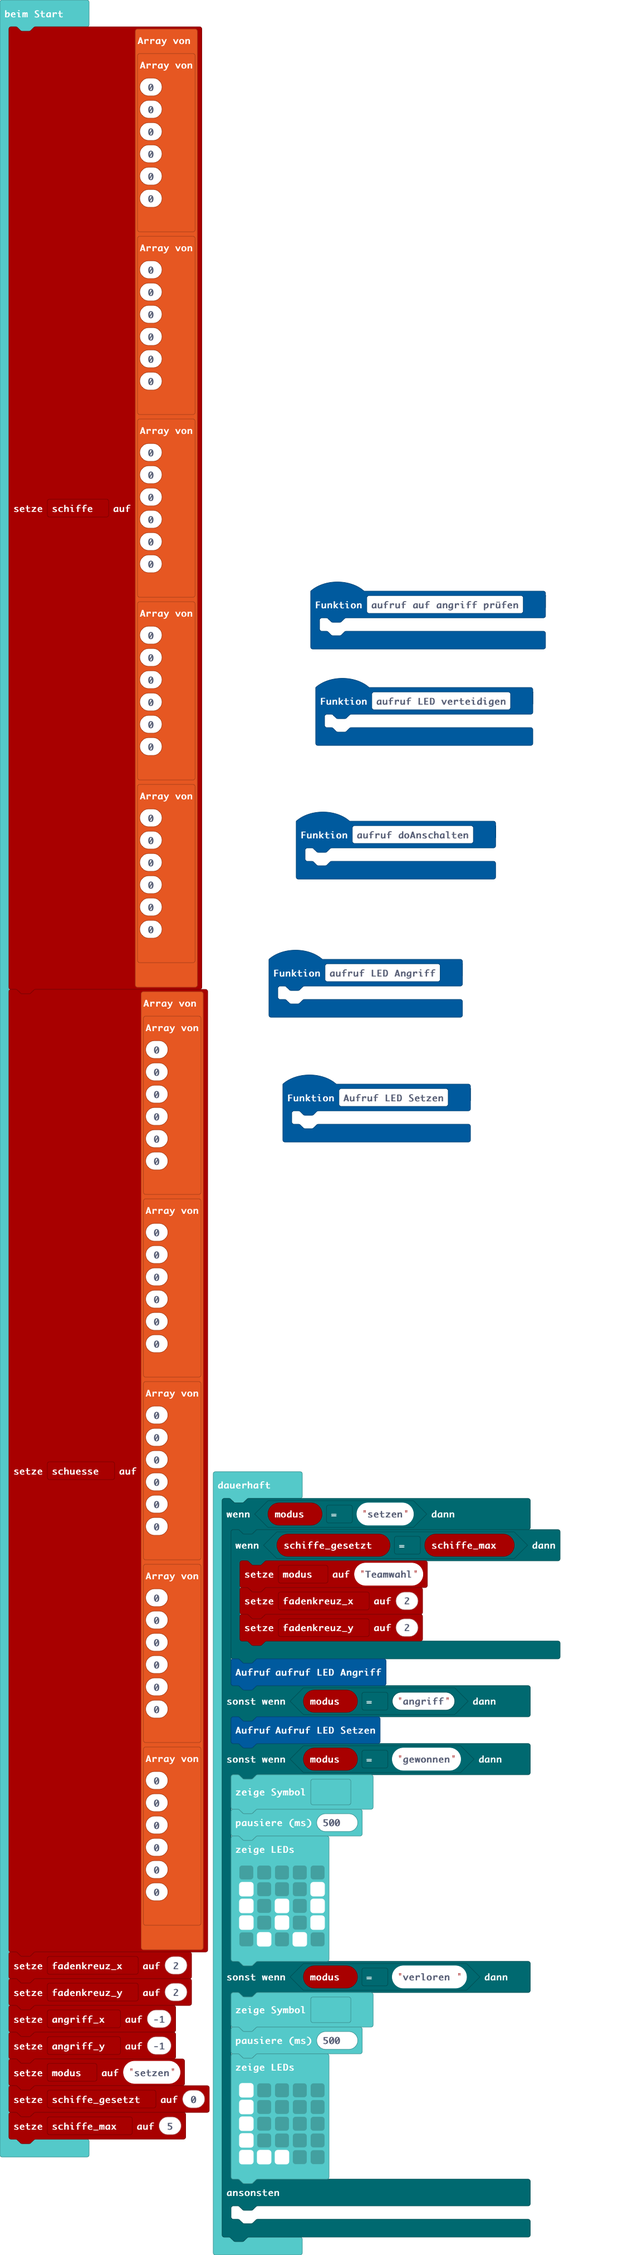
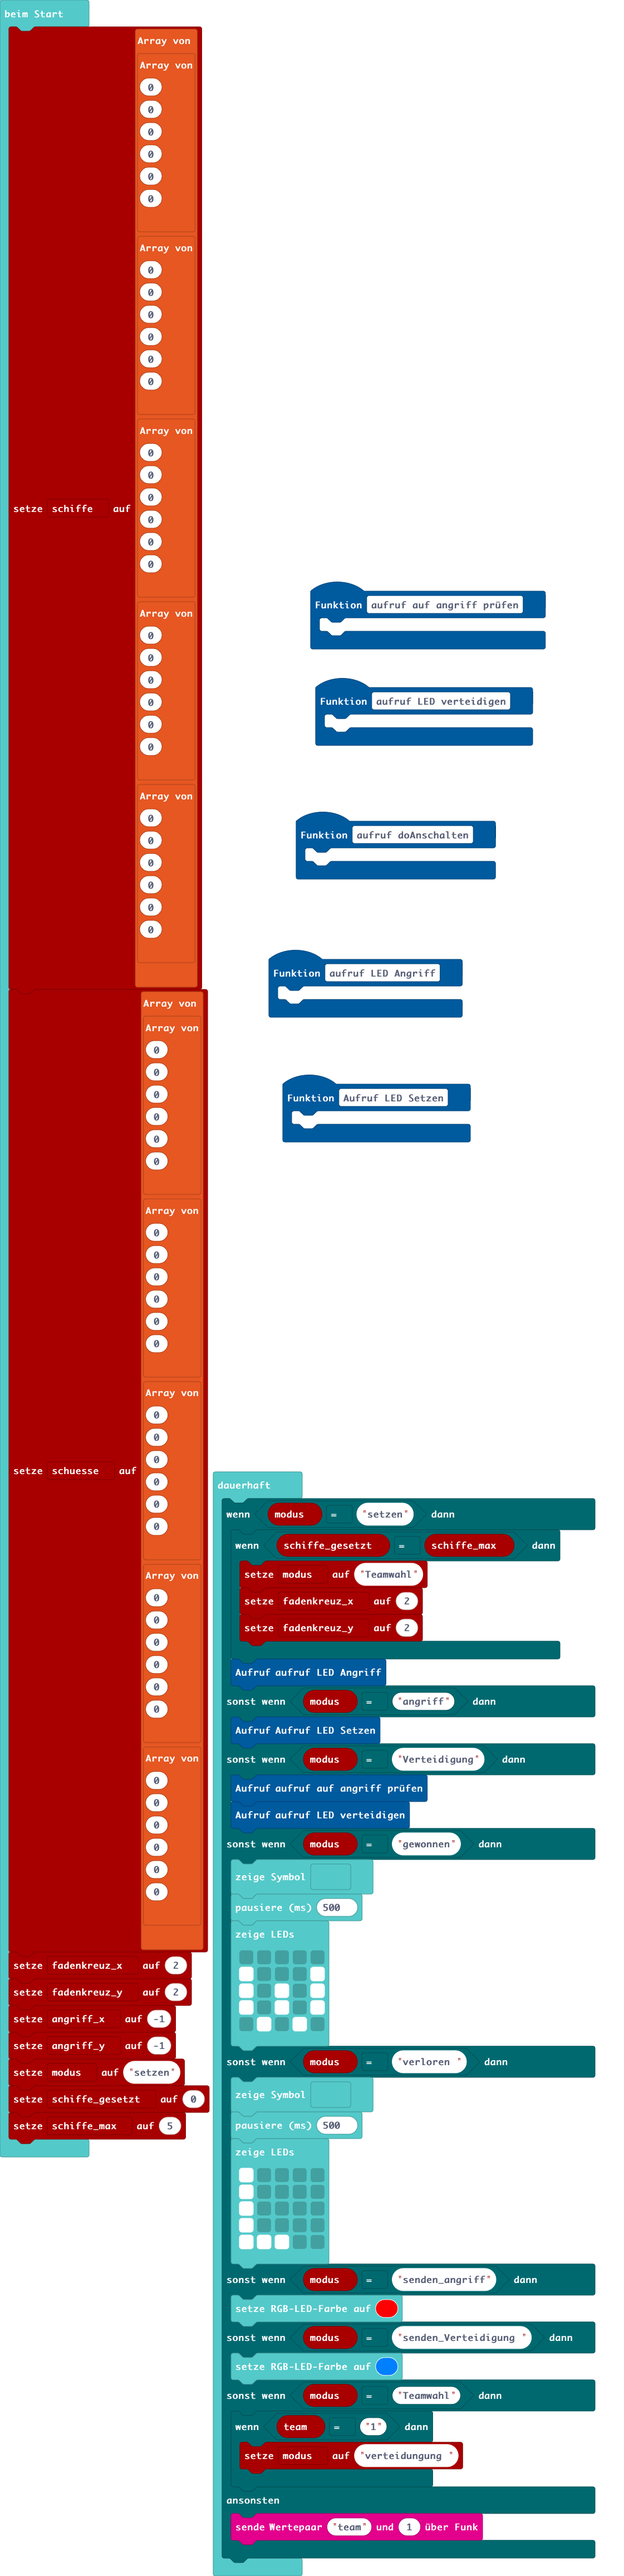
Aktualisiere main.blocks, main.ts

Changed region(s): [[0.0, 0.0, 0.9802, 1.0], [0.4288, 0.2179, 0.8883, 0.5292], [0.0306, 0.0, 0.0919, 0.0311]]

diff --git a/main.ts b/main.ts
@@ -114,6 +114,9 @@ basic.forever(function () {
         aufruf_LED_Angriff()
     } else if (modus == "angriff") {
         Aufruf_LED_Setzen()
+    } else if (modus == "Verteidigung") {
+        aufruf_auf_angriff_prüfen()
+        aufruf_LED_verteidigen()
     } else if (modus == "gewonnen") {
         basic.showIcon(IconNames.Happy)
         basic.pause(500)
@@ -134,7 +137,16 @@ basic.forever(function () {
             # . . . .
             # # # . .
             `)
+    } else if (modus == "senden_angriff") {
+        basic.setLedColor(0xff0000)
+    } else if (modus == "senden_Verteidigung ") {
+        basic.setLedColor(0x007fff)
+    } else if (modus == "Teamwahl") {
+        let team = ""
+        if (team == "1") {
+            modus = "verteidungung "
+        }
     } else {
-    	
+        radio.sendValue("team", 1)
     }
 })
